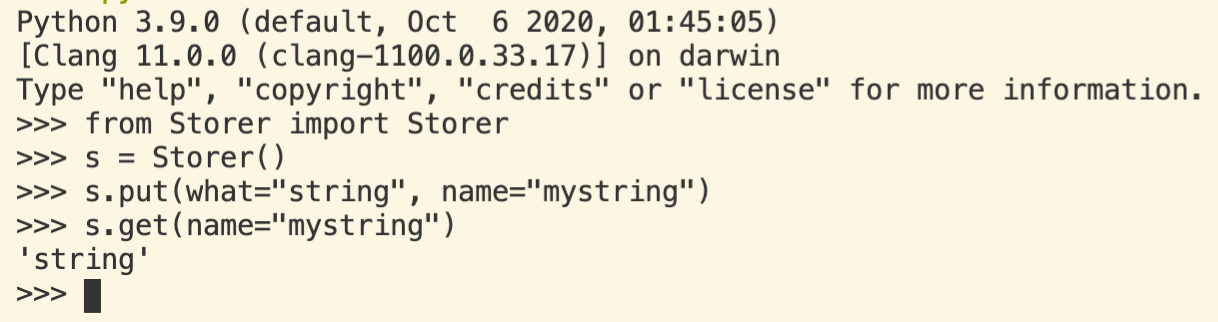
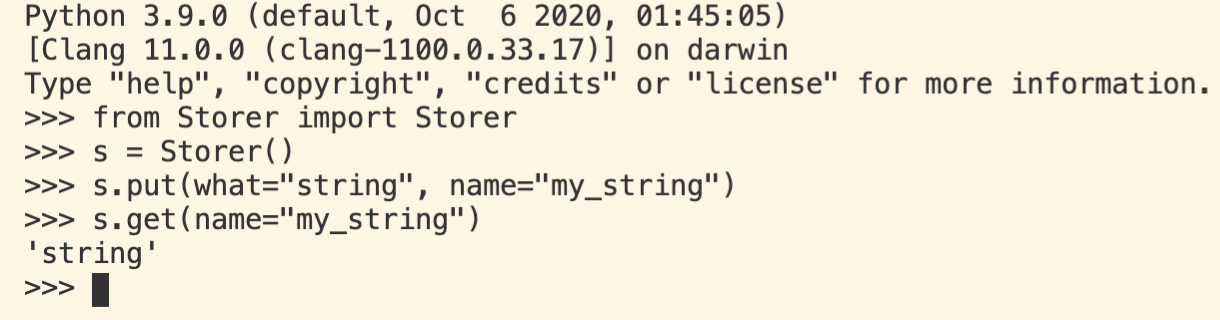
docs; cleaning up

Changed region(s): [[0.0, 0.0, 0.9984, 0.9688]]

diff --git a/Storer/Storer.py b/Storer/Storer.py
@@ -23,7 +23,8 @@ class Storer:
         if self.verbose: print(f"[Storer v.{self.__version__ }] is initialized!")
         if self.path_dumps == Path(os.path.expanduser(os.path.dirname(__file__))) or self.path_dumps == "." :
             self.path_dumps = Path(os.path.expanduser(os.path.dirname(__file__))) / "data"
-        else: self.path_dumps = Path(self.path_dumps)
+        else: 
+            self.path_dumps = Path(os.path.expanduser(self.path_dumps))
 
         if self.verbose: print(f"Dump folder: [{self.path_dumps}]")
         os.makedirs(self.path_dumps, exist_ok=True)

diff --git a/README.md b/README.md
@@ -3,7 +3,6 @@
 - [1. Storer](#1-storer)
   - [1.1. Usage](#11-usage)
   - [1.2. Contribution](#12-contribution)
-  - [Future](#future)
   - [## License](#-license)
 
 Minimalist storage class for any purpose. Created for internal needs. Feel free to use it and contribute (see [contribution section](#12-contribution)).
@@ -14,32 +13,51 @@ Minimalist storage class for any purpose. Created for internal needs. Feel free 
 
 Installation:
 `
-pip install Storer
+pip3 install Storer
 `
 
 Easy to use.
 
 1. Create an Storer instance: `s = Storer()`
-2. Put something: `s.put(what=<what_ever_you_like>, name=<name_it>)`
+2. Put something: `s.put(what=<what_ever_you_like>, name=<name_of_object>)`
 3. Get something: `s.get(name=<name_of_object>)`
 4. Look at objects: `s.show()` or `output = s.show(get_string=True)`
 
 
 Few examples:
 
-![usage1](pic/usage1.png)
+```
+>>> from Storer import Storer
+>>> s = Storer()
+>>> s.put(what="string", name="my_string")
+>>> s.get(name="my_string")
+'string'
+>>> 
+```
 
-![usage2](pic/usage2.png)
+```
+>>> from Storer import Storer
+>>> s = Storer(path_dumps="~/my_folder_for_dumps", dump_name="dumps", verbose=True)
+[Storer v.0.9.0 [20]] is initialized!
+Dump folder: [/Users/alexander/my_folder_for_dumps]
+>>> s.load() # loading if dump exists
+[Storer] /Users/alexander/my_folder_for_dumps loading...
+[Storer] No data is available for loading...
+{}
+>>> s.put(what=[i for i in range(10)], name="my_range")
+>>> s.put(what={v:v*2 for v in range(5)}, name="my_dict")
+>>> s.dump()
+[Storer] /Users/alexander/my_folder_for_dumps dumps dumping...
+>>> s.load() # loading again
+[Storer] /Users/alexander/my_folder_for_dumps loading...
+{'my_range': [0, 1, 2, 3, 4, 5, 6, 7, 8, 9], 'my_dict': {0: 0, 1: 2, 2: 4, 3: 6, 4: 8}}
+>>> 
+```
 
 
 ## 1.2. Contribution
 
 Feel free to contribute to the project, but please create initially an issue with detailed problem and way to resolve it. 
-
-## Future 
-
- - extend file formats for storing
- - ...
 
 ## License
 ----
